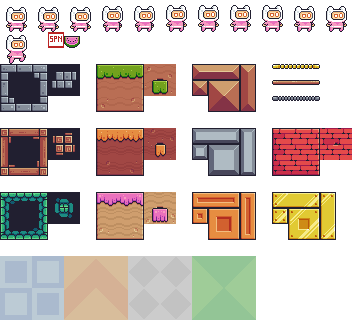
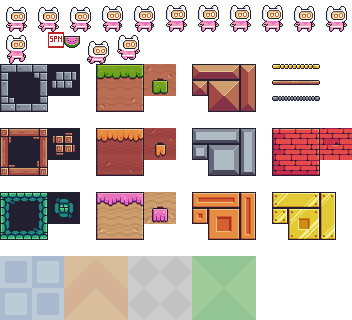
add animations

Changed region(s): [[0.25, 0.0938, 0.4062, 0.2188]]

diff --git a/src/game/player.cpp b/src/game/player.cpp
@@ -14,23 +14,27 @@
 // {
 // }
 
-Player::Player(Sprite sprite) : Player({0.0f, 0.0f}, sprite)
+Player::Player(PlayerAnimations playerAnimations) 
+: Player({0.0f, 0.0f}, playerAnimations)
 {
 }
 
-Player::Player(Vector2 position, Sprite sprite) : m_position(position),
-                                                  sprite(sprite),
-                                                  m_previousPosition(position),
-                                                  m_velocity({0, 0}),
-                                                  m_direction({0, 0})
+Player::Player(Vector2 position,PlayerAnimations playerAnimations)
+ :  m_position(position),
+    m_playerAnimations(playerAnimations),
+    m_previousPosition(position),
+    m_velocity({0, 0}),
+    m_direction({0, 0})
 
 {
+    m_previousState = getState();
 }
 
 void Player::draw(int tileSize)
 {
     // DrawRectangle(m_position.x*m_tileSize, m_position.y*m_tileSize, m_tileSize, m_tileSize, MAROON);
-    sprite.draw({m_position.x*tileSize, m_position.y*tileSize}, {64,64});
+    // sprite.draw({m_position.x*tileSize, m_position.y*tileSize}, {64,64}, !m_facingRight);
+    getActiveAnimation().getCurrentSprite().draw({m_position.x*tileSize, m_position.y*tileSize}, {64,64}, !m_facingRight);
     std::string msg = "" +  std::to_string(m_velocity.x) + ", " + std::to_string(m_velocity.y);
     DrawText(msg.c_str(), m_position.x*tileSize, m_position.y*tileSize-20, 18, BLACK);
 
@@ -63,16 +67,28 @@ void Player::update(float elapsedTime)
 
     if (m_velocity.x > 0.1f) m_facingRight = true;
     if (m_velocity.x < -0.1f) m_facingRight = false;
+
+    if(m_previousState != getState()) {
+        getActiveAnimation().reset();
+    }
+
+    getActiveAnimation().update(elapsedTime);
+
+    m_previousState = getState();
 }
 
 PlayerState Player::getState() const
 {
-    if (onGround)
-        return PlayerState::Idle;
-    else if (m_velocity.y < 0.0f)
-        return PlayerState::Jumping;
-    else
+    if (!onGround) {
+        if (m_velocity.y < 0.0f)
+            return PlayerState::Jumping;
         return PlayerState::Falling;
+    }
+
+    if (m_isAiming)
+        return PlayerState::Aiming;
+    
+    return PlayerState::Idle;
 }
 
 void Player::reset(Vector2 spawnPos)
@@ -84,4 +100,23 @@ void Player::reset(Vector2 spawnPos)
     m_facingRight = true;
     m_hitWall = false;
     onGround = false;
+    m_isAiming = false;
+    m_previousState = getState();
+}
+
+Animation &Player::getActiveAnimation()
+{
+    switch (getState())
+    {
+    case PlayerState::Aiming:
+        return m_playerAnimations.aiming; 
+    case PlayerState::Falling:
+        return m_playerAnimations.falling; 
+    case PlayerState::Idle:
+        return m_playerAnimations.idle; 
+    case PlayerState::Jumping:
+        return m_playerAnimations.jumping; 
+    }
+
+    return m_playerAnimations.idle;
 }

diff --git a/src/assets/sprite.cpp b/src/assets/sprite.cpp
@@ -14,9 +14,10 @@ void Sprite::draw(Vector2 position) const
     DrawTexturePro(*texture, sourceRectangle, {position.x, position.y, size.x, size.y}, origin, (float)rotation, WHITE);
 }
 
-void Sprite::draw(Vector2 position, Vector2 drawSize) const
+void Sprite::draw(Vector2 position, Vector2 drawSize, bool flipX) const
 {
-    DrawTexturePro(*texture, sourceRectangle, {position.x, position.y, drawSize.x, drawSize.y}, origin, (float)rotation, WHITE);
+    Rectangle drawSourceRectangle = {sourceRectangle.x, sourceRectangle.y, (flipX ? -sourceRectangle.width : sourceRectangle.width ), sourceRectangle.height};
+    DrawTexturePro(*texture, drawSourceRectangle, {position.x, position.y, drawSize.x, drawSize.y}, origin, (float)rotation, WHITE);
 }
 
 void SpriteGroup::draw(Vector2 position) const
@@ -54,4 +55,21 @@ void SpriteGroup::draw(Vector2 position, Vector2 size, Vector2 drawBounds) const
                 sprite.draw(newPosition, size);
         }
     }
+}
+
+void Animation::update(float dt)
+{
+    if (frames.empty()) return;
+
+    timer += dt;
+    if (timer >= frameDuration) {
+        timer -= frameDuration;
+        currentFrame = (currentFrame + 1) % frames.size(); 
+    }
+}
+
+void Animation::reset()
+{
+    timer = 0.0f;
+    currentFrame = 0;
 }

diff --git a/src/app/game.cpp b/src/app/game.cpp
@@ -12,7 +12,7 @@ Game::Game(int windowWidth, int windowHeight, const char *windowTitle)
     m_levelRepository(m_levelFileLoader),
     m_assets(),
     m_levelEditor(std::make_unique<LevelEditor>(m_levelRepository, m_assets,[this]() {onSwitchToNewGame();}, [this]() {onSwitchToMenu();})),
-    m_gameScene(std::make_unique<GameScene>(windowWidth, windowHeight, Player(m_assets.getPlayer()), LevelMap(m_levelRepository, m_assets), m_gameSettings, [this] () {onSwitchToEditor();}, [this] () {onSwitchToMenu();})),
+    m_gameScene(std::make_unique<GameScene>(windowWidth, windowHeight, Player(m_assets.getPlayerAnimations()), LevelMap(m_levelRepository, m_assets), m_gameSettings, [this] () {onSwitchToEditor();}, [this] () {onSwitchToMenu();})),
     m_menuScene(std::make_unique<MenuScene>(windowWidth, windowHeight, m_gameSettings, [this]() {onSwitchToNewGame();}, [this]() {onSwitchToEditor();}, [this]() {onSwitchToExit();}, [this]() {onSwitchToLoadGame();}))
 {
     SetTargetFPS(60);

diff --git a/src/game/player.hpp b/src/game/player.hpp
@@ -13,7 +13,8 @@ namespace PlayerConfig {
 enum class PlayerState {
     Idle,
     Jumping,
-    Falling
+    Falling,
+    Aiming
 };
 
 class Player : IUpdate
@@ -24,13 +25,16 @@ class Player : IUpdate
     Vector2 m_previousPosition;
     Vector2 m_velocity;
     Vector2 m_direction;
-    Sprite sprite;
+    PlayerAnimations m_playerAnimations;
     bool onGround = false;
     bool m_facingRight = true;
     bool m_hitWall = false;
+    bool m_isAiming = false;
+
+    PlayerState m_previousState;
     
-    Player(Sprite sprite);
-    Player(Vector2 position, Sprite sprite);
+    Player(PlayerAnimations playerAnimations);
+    Player(Vector2 position, PlayerAnimations playerAnimations);
     ~Player() = default;
 
     PlayerState getState() const;
@@ -39,5 +43,7 @@ class Player : IUpdate
     void update(float elapsedTime);
     
     void reset(Vector2 spawnPos = {0.0f, 0.0f});
+
+    Animation& getActiveAnimation();
 };
 

diff --git a/src/assets/sprite.hpp b/src/assets/sprite.hpp
@@ -21,7 +21,7 @@ public:
 
     Vector2 getSize() const {return size;};
     void draw(Vector2 position) const;
-    void draw(Vector2 position, Vector2 size) const;
+    void draw(Vector2 position, Vector2 size, bool flipX = false) const;
 };
 
 struct SpriteGroup {
@@ -32,4 +32,16 @@ struct SpriteGroup {
     void draw(Vector2 position) const;
     void draw(Vector2 position, Vector2 size) const;
     void draw(Vector2 position, Vector2 size, Vector2 drawBounds) const;
+};
+
+struct Animation {
+    std::vector<Sprite> frames;
+    float frameDuration = 0.15f;
+    float timer = 0.0f;
+    size_t currentFrame = 0;
+
+    void update(float dt);
+    void reset();
+    size_t getCurrentFrame() const {return currentFrame;}
+    const Sprite& getCurrentSprite() const {return frames.at(currentFrame);}
 };

diff --git a/src/assets/assets.hpp b/src/assets/assets.hpp
@@ -4,6 +4,12 @@
 #include "sprite.hpp"
 #include "app/common.hpp"
 
+struct PlayerAnimations {
+    Animation idle;
+    Animation aiming;
+    Animation jumping;
+    Animation falling;
+};
 
 enum class SpriteNames {
     PLAYER = 1,
@@ -26,7 +32,7 @@ private:
 
     Sprite player;
     SpriteGroup background;
-
+    PlayerAnimations playerAnimations;
     
 public:
     Assets();
@@ -44,6 +50,7 @@ public:
     Sprite getBackground() {return sprites.at(22*16 + 4);};
 
     const SpriteGroup& getBackgroundGroup() const {return background;};
+    const PlayerAnimations& getPlayerAnimations() const {return playerAnimations;};
 
     CellType getCellType(int spriteId);
 
@@ -52,4 +59,5 @@ public:
     Assets(const Assets&) = delete;
     Assets& operator=(const Assets&) = delete;
 };
+
 

diff --git a/src/game/gameScene.cpp b/src/game/gameScene.cpp
@@ -90,10 +90,12 @@ void GameScene::processInput()
 
     if (IsMouseButtonDown(0)) {
         m_line.mouseButtonDown();
+        m_player.m_isAiming = true;
     }
 
     // std::cout<<m_player.onGround<<"\n";
     if (!IsMouseButtonDown(0)) {
+        m_player.m_isAiming = false;
         if (auto impulse = m_line.mouseButtonUp()) {
             if (m_player.onGround) {
                 m_player.m_velocity = *impulse; 
@@ -117,6 +119,7 @@ void GameScene::update(float deltaTime)
     m_tileMap.checkAndResolveCollision(m_player);
 
     if (m_tileMap.isGoalReached(m_player.m_position)) {
+        m_player.m_isAiming = false;
         m_victory = true;
         std::remove("save.txt");
         m_line.reset();

diff --git a/src/assets/assets.cpp b/src/assets/assets.cpp
@@ -25,6 +25,14 @@ Assets::Assets() :
     for(const auto& i : backgroundIDs) {
         background.sprites.push_back(getSprite(i));
     }
+    for(int i=0; i<10; i++) {
+        playerAnimations.idle.frames.push_back(Sprite(&texture, {i*32.0f,0.0f,32.0f,32.0f}));
+    }
+    playerAnimations.aiming.frames.push_back(Sprite(&texture, {80.0f, 32.0f, 32.0f, 32.0f}));
+    playerAnimations.falling.frames.push_back(Sprite(&texture, {112.0f, 32.0f, 32.0f, 32.0f}));
+    playerAnimations.jumping.frames.push_back(Sprite(&texture, {0.0f, 32.0f, 32.0f, 32.0f}));
+
+    
 
     // sprites.push_back(Sprite(texture, {0,0,32,32})); // Player
     // sprites.push_back(Sprite(texture, {96,64,32,32})); // Grass
